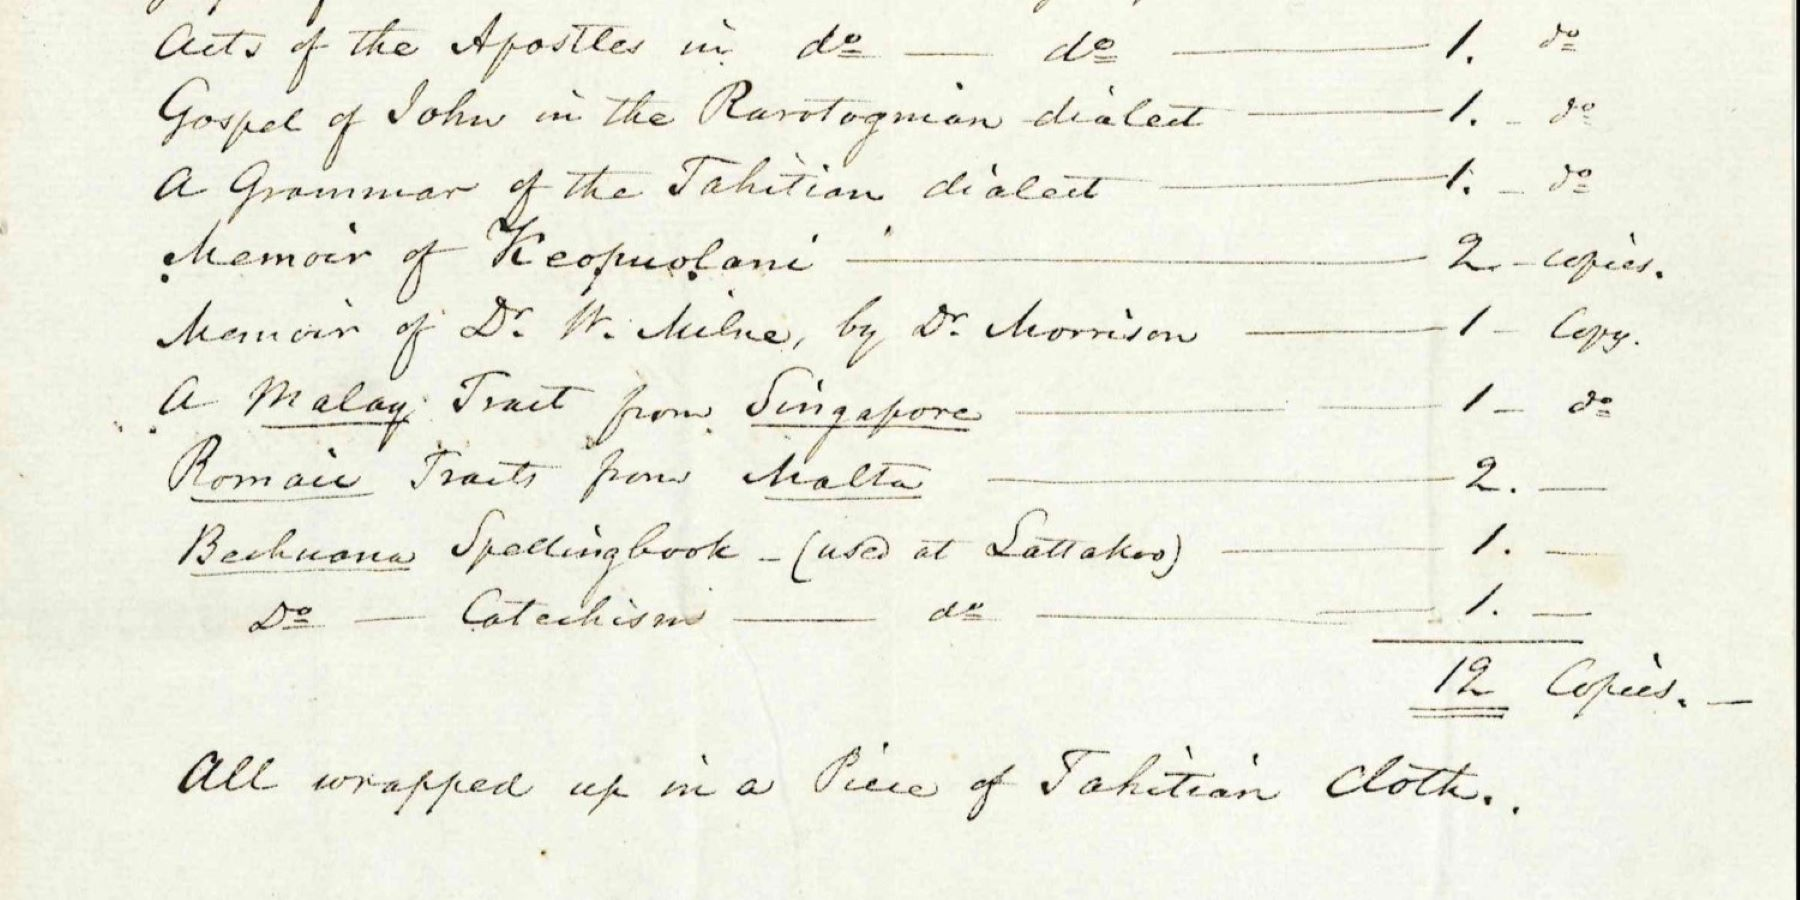
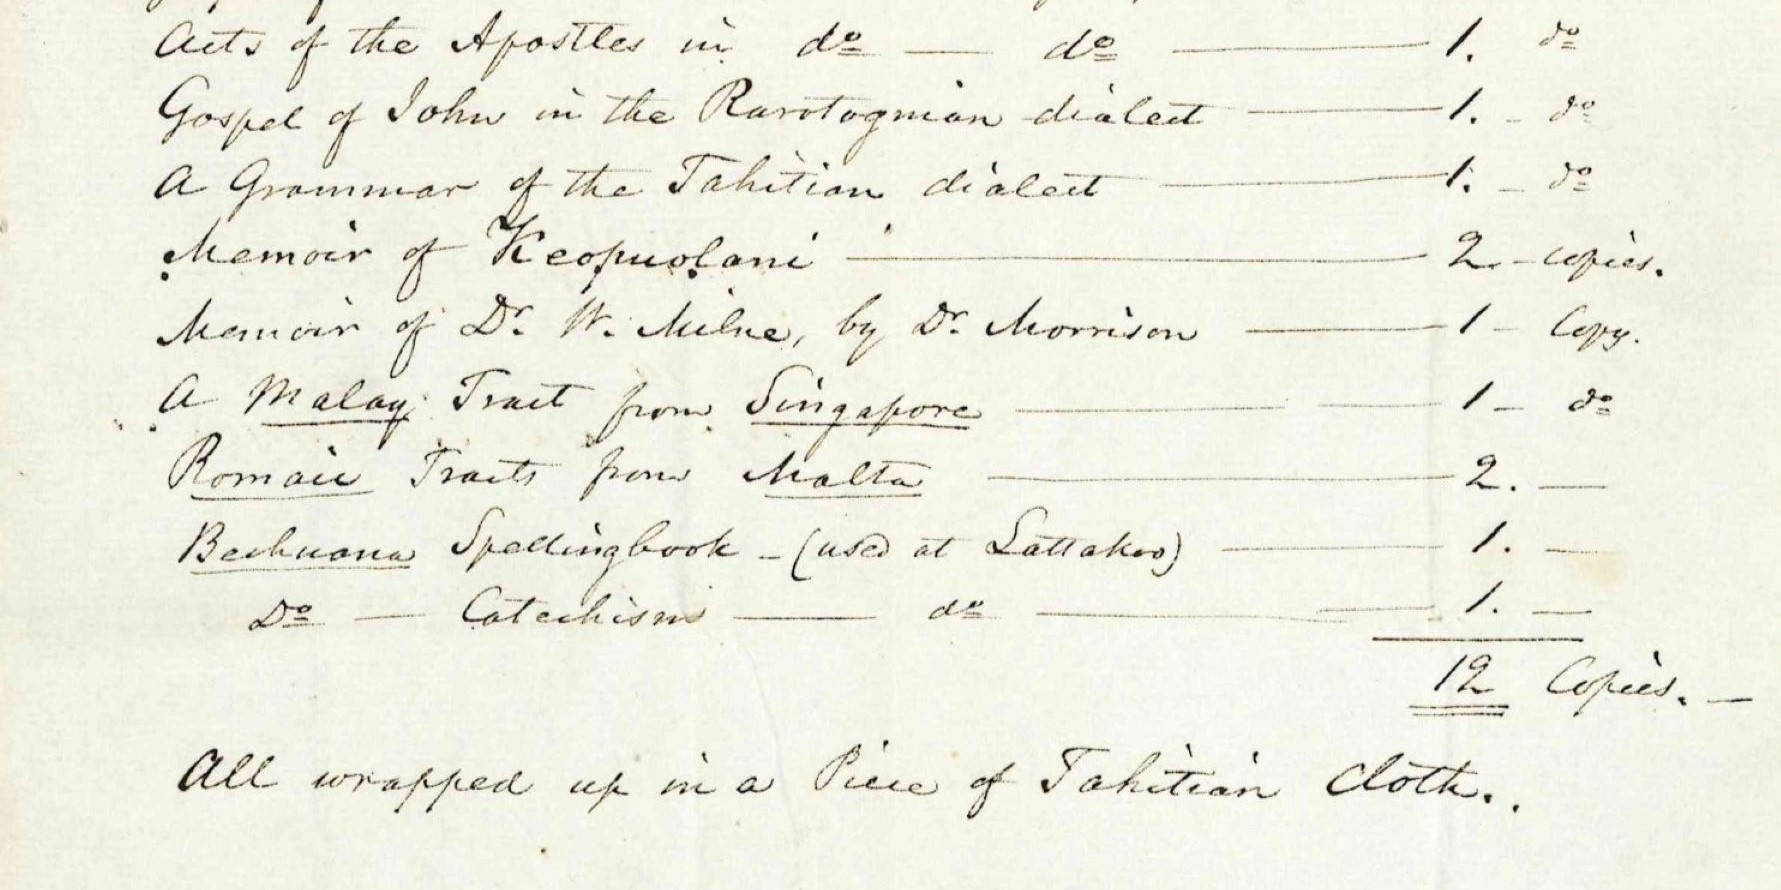
updating cover image

diff --git a/content/_assets/styles/epub.scss b/content/_assets/styles/epub.scss
@@ -413,6 +413,34 @@ section.level1 {
   }
 }
 
+// hero section: title-only display (no image in epub)
+.quire-page__header.hero,
+.quire-cover__hero {
+  text-align: center;
+  padding: 3em 1em;
+  .quire-page__header__title,
+  .title {
+    text-align: center;
+  }
+  .label {
+    display: block;
+    margin-bottom: 0.5em;
+  }
+}
+
+// author note: own page after title
+.author-note {
+  break-before: page;
+  page-break-before: always;
+}
+
+// force first figure in a hero-page chapter to start a fresh page,
+// keeping any epigraph blockquote with the title
+.quire-page__header.hero + .section .content > figure:first-of-type {
+  break-before: page;
+  page-break-before: always;
+}
+
 // chapter label
 .label {
   margin: 0 auto .75em;
